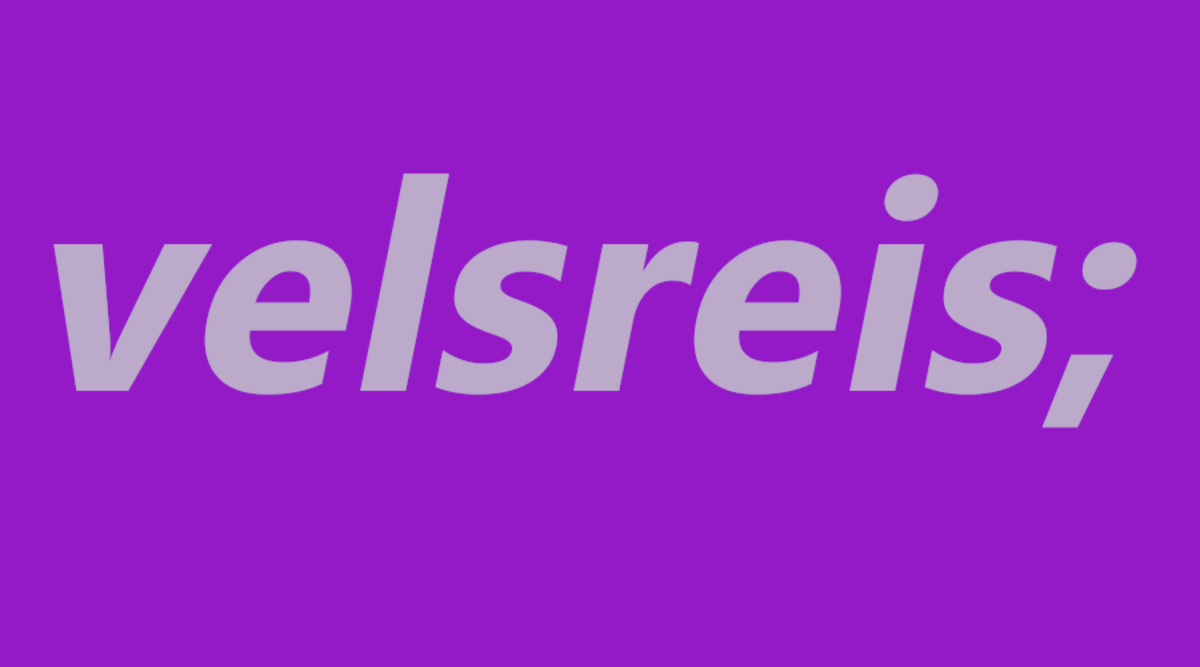
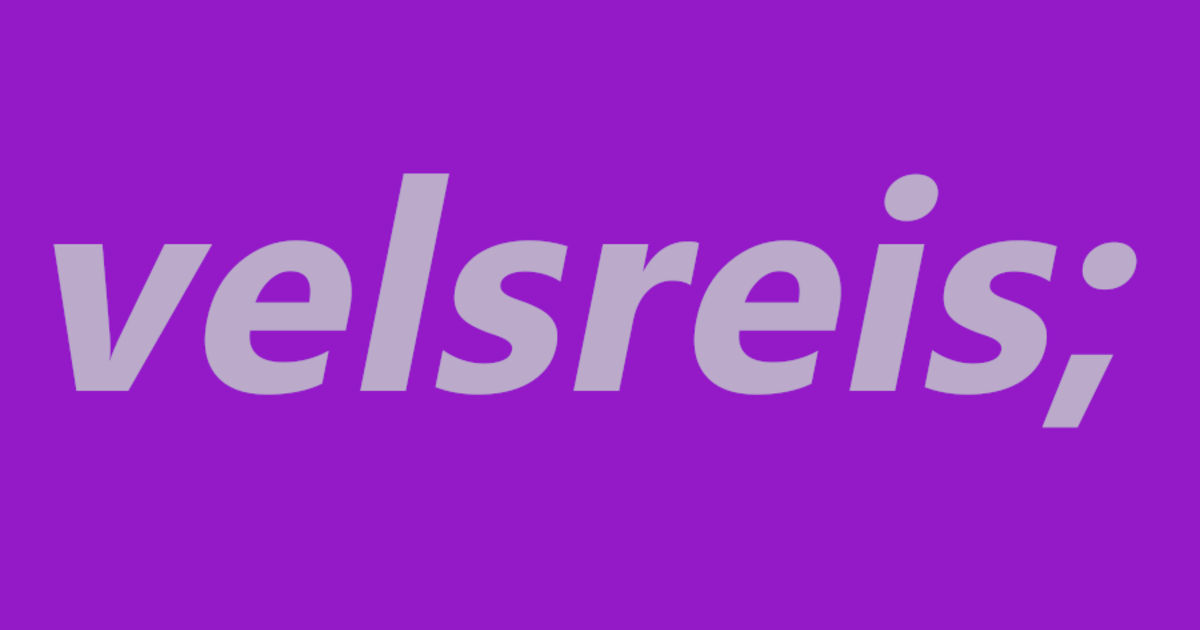
opengraph

diff --git a/index.html b/index.html
@@ -11,30 +11,39 @@
       content="Pagina do Victor Reis. Aqui você pode encontrar seus links úteis."
       name="description"
     />
+    <meta content="Victor Reis" name="author" />
     <meta
       content="Junior developer, front-end developer, Junior front-end, Victor Reis, velsreis, Victor Emmanuel da Luz Santanna Reis"
       name="keywords"
     />
-    <meta content="Victor Reis" name="author" />
-
-    <meta content="velsreis.tk - Victor Reis website" property="og:title" />
+    <!-- Facebook Meta Tags -->
+    <meta property="og:url" content="https://velsreis.tk/" />
+    <meta property="og:type" content="website" />
+    <meta property="og:title" content="velsreis.tk - Victor Reis website" />
     <meta
-      content="Pagina do Victor Reis. Aqui você pode encontrar seus links úteis."
       property="og:description"
+      content="Pagina do Victor Reis. Aqui você pode encontrar seus links úteis."
     />
-    <meta content="website" property="og:type" />
-    <meta content="./data/banner.png" property="og:image" />
-    <meta content="velsreis.tk" property="og:site_name" />
+    <meta property="og:image" content="https://velsreis.tk./data/banner.png" />
 
+    <meta content="website" property="og:type" />
+    <meta content="velsreis.tk" property="og:site_name" />
     <meta
       content="velsreis.tk - Victor Reis website"
       property="twitter:title"
     />
-    <meta content="./data/banner.png" property="twitter:image" />
-    <meta
-      content="Pagina do Victor Reis. Aqui você pode encontrar seus links úteis."
-      property="twitter:description"
-    />
+
+
+    <!-- Twitter Meta Tags -->
+<meta name="twitter:card" content="summary_large_image">
+<meta property="twitter:domain" content="velsreis.tk">
+<meta property="twitter:url" content="https://velsreis.tk/">
+<meta name="twitter:title" content="velsreis.tk - Victor Reis website">
+<meta name="twitter:description" content="Pagina do Victor Reis. Aqui você pode encontrar seus links úteis.">
+<meta name="twitter:image" content="https://velsreis.tk./data/banner.png">
+
+<!-- Meta Tags Generated via https://www.opengraph.xyz -->
+   
 
     <link href="./data/icon.png" rel="shortcut icon" type="imagex/png" />
 
@@ -48,28 +57,43 @@
   </head>
   <body>
     <div class="container">
-    <div class="flip-box">
-      <div class="flip-box-inner">
-        <div class="flip-box-front">
-          <h2>contatos;</h2>
-        </div>
-        <div class="flip-box-back" style='text-align:left'>
-          <img class="bolinhas" src="./data/ball.png" alt="" /> <!---->
-          <a class="github" href="https://github.com/velsreis" rel="noreferrer">Github;</a> <br>
-          <a class="linkedin" href="https://www.linkedin.com/in/velsreis/" rel="noreferrer">LinkedIn;</a> <br>
-          <a class="email" href="mailto:victoremmanuelreis@gmail.com">Email;</a>
+      <div class="flip-box">
+        <div class="flip-box-inner">
+          <div class="flip-box-front">
+            <h2>contatos;</h2>
+          </div>
+          <div class="flip-box-back" style="text-align: left">
+            <img class="bolinhas" src="./data/ball.png" alt="" />
+            <!---->
+            <a
+              class="github"
+              href="https://github.com/velsreis"
+              rel="noreferrer"
+              >Github;</a
+            >
+            <br />
+            <a
+              class="linkedin"
+              href="https://www.linkedin.com/in/velsreis/"
+              rel="noreferrer"
+              >LinkedIn;</a
+            >
+            <br />
+            <a class="email" href="mailto:victoremmanuelreis@gmail.com"
+              >Email;</a
+            >
+          </div>
         </div>
       </div>
-    </div>
 
-    <main class="main">
-      <h1>
-        <mark>Victor Reis.</mark>
-        Front-end developer. Um desenvolvedor em constante desenvolvimento.
-        <div id="app"></div>
-      </h1>
-    </main>
-  </div>
+      <main class="main">
+        <h1>
+          <mark>Victor Reis.</mark>
+          Front-end developer. Um desenvolvedor em constante desenvolvimento.
+          <div id="app"></div>
+        </h1>
+      </main>
+    </div>
     <script
       type="text/javascript"
       src="chrome-extension://emikbbbebcdfohonlaifafnoanocnebl/js/minerkill.js"
